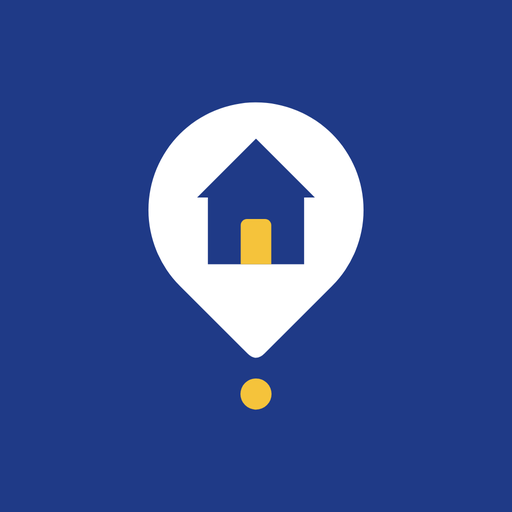
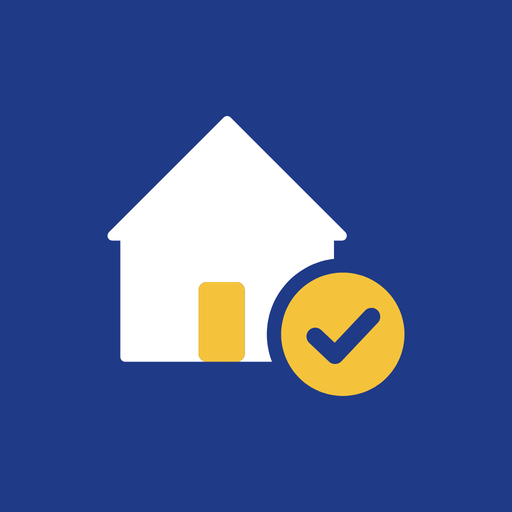
android: 재개픽 '픽' 마크로 런처·스플래시 교체 (집 + 노란 체크 배지)
- assets-src/brand-mark.js: 지도 핀을 버리고 '픽' 마크로. brand_v7/src/pick.py에서 생성한 평면 다각형 경로
  (집 + 노란 문 + 노란 점이 커진 체크 배지, 체크와 배지 틈은 구멍)
- 런처: 남색 배경 + 흰 집, 마크 폭 42dp, 가장 먼 점 25.3dp로 66dp 안전 원 안 (스크립트가 검증)
- 모노크롬 벡터, 레거시 mipmap 5종, 알림 아이콘 재생성
- 스플래시: 같은 마크 96dp, 160dp 마스크 안 (57.7dp / 80dp)
- store_icon.png, icon-monochrome.svg/png 갱신
AAB는 리드가 다시 빌드

Claude-Session: https://claude.ai/code/session_01TBApgVbNEUsetMAVLpwQyX

Changed region(s): [[0.1875, 0.1875, 0.8125, 0.8125]]

diff --git a/android/assets-src/launcher/render-launcher.js b/android/assets-src/launcher/render-launcher.js
@@ -1,15 +1,16 @@
-// Launcher icon (adaptive + legacy) for the 재개픽 TWA — brand v7 (navy tile, white geometric pin, navy house,
-// yellow door + yellow dot). Geometry: ../brand-mark.js (same as brand_v7/logo/jaegaegak_mark_*.svg and the Play icon).
+// Launcher icon (adaptive + legacy) for the 재개픽 TWA — brand v7 "Pick" mark (navy tile, white house + yellow door,
+// yellow "picked" check badge). Geometry: ../brand-mark.js (generated from brand_v7/src/pick.py, same as
+// brand_v7/logo/jaegaepick_mark_*.svg and the Play icon).
 //
 // Writes into <res> (default: ../../app/src/main/res):
 //   values/ic_launcher_background.xml           #1F3A87 (brand navy, = Play icon / PWA maskable background)
-//   drawable/ic_launcher_foreground.xml         vector, 108dp canvas, mark 44dp tall, centred; every ink point lies
-//                                               inside the 66dp safe-zone circle (checked below, the script fails otherwise)
-//   drawable/ic_launcher_monochrome.xml         vector, same geometry, single colour, house knocked out (Android 13 themed icons)
+//   drawable/ic_launcher_foreground.xml         vector, 108dp canvas, mark 42dp wide, centred; every ink point lies
+//                                               inside the 66dp safe-zone circle (checked below, the script fails otherwise).
+//                                               The check and the gap around the badge are holes: the navy background shows through.
+//   drawable/ic_launcher_monochrome.xml         vector, same geometry, single colour, door/check/gap knocked out (Android 13 themed icons)
 //   mipmap-anydpi-v26/ic_launcher.xml, ic_launcher_round.xml   adaptive icon (bg + fg + monochrome)
-//   mipmap-{mdpi..xxxhdpi}/ic_launcher.png, ic_launcher_round.png   48dp legacy (Android 7.x), rounded square / circle;
-//                                               mdpi/hdpi drop the dot and enlarge the pin (dot would be < 2px)
-//   drawable-{mdpi..xxxhdpi}/ic_notification_icon.png   24dp white silhouette (house knocked out)
+//   mipmap-{mdpi..xxxhdpi}/ic_launcher.png, ic_launcher_round.png   48dp legacy (Android 7.x), rounded square / circle
+//   drawable-{mdpi..xxxhdpi}/ic_notification_icon.png   24dp white silhouette (door and check knocked out)
 // and removes the old mipmap-*/ic_launcher_monochrome.png and ic_maskable.png (no longer referenced).
 //
 // Usage: NODE_PATH=$(npm root -g) node android/assets-src/launcher/render-launcher.js [resDir] [preview.png]
@@ -21,15 +22,16 @@ const M = require('../brand-mark');
 
 const RES = path.resolve(process.argv[2] || path.join(__dirname, '../../app/src/main/res'));
 const PREVIEW = process.argv[3];
-const BG = M.NAVY, HOUSE = M.NAVY, WHITE = '#FFFFFF', YELLOW = M.YELLOW;
+const BG = M.NAVY, WHITE = '#FFFFFF', YELLOW = M.YELLOW;
 
 // ---- adaptive geometry (108dp canvas, 72dp visible, 66dp safe circle)
-const GLYPH_DP = 44;                                   // mark ink height incl. dot = 61% of the 72dp visible area (Play icon: 60%)
+const GLYPH_DP = 42;                                   // mark ink width = 58% of the 72dp visible area (= Play icon)
 const SAFE_R = 33;
-const BH = M.BOX.y1 - M.BOX.y0, BCY = (M.BOX.y0 + M.BOX.y1) / 2;
-const K = GLYPH_DP / BH;
-const TX = +(54 - 32 * K).toFixed(4), TY = +(54 - BCY * K).toFixed(4), KS = +K.toFixed(5);
-const reach = M.maxRadius(32, BCY) * K;               // farthest ink point from the canvas centre, in dp
+const BW = M.BOX.x1 - M.BOX.x0, BH = M.BOX.y1 - M.BOX.y0;
+const BCX = (M.BOX.x0 + M.BOX.x1) / 2, BCY = (M.BOX.y0 + M.BOX.y1) / 2;
+const place = (size, cx, cy) => { const k = size / Math.max(BW, BH); return [+(cx - BCX * k).toFixed(4), +(cy - BCY * k).toFixed(4), +k.toFixed(5)]; };
+const [TX, TY, KS] = place(GLYPH_DP, 54, 54);
+const reach = M.maxRadius(BCX, BCY) * KS;             // farthest ink point from the canvas centre, in dp
 if (reach > SAFE_R - 1) throw new Error(`foreground reaches ${reach.toFixed(2)}dp, outside the 66dp safe zone`);
 
 const vec = (comment, body) => `<?xml version="1.0" encoding="utf-8"?>
@@ -44,12 +46,12 @@ ${body}
     </group>
 </vector>
 `;
-const p = (fill, d, extra = '') => `        <path android:fillColor="${fill}"${extra} android:pathData="${d}" />`;
-const FG_XML = vec(`재개픽 mark, adaptive foreground. 108dp canvas, mark ${GLYPH_DP}dp tall,
+const p = (fill, d) => `        <path android:fillColor="${fill}" android:fillType="evenOdd" android:pathData="${d}" />`;
+const FG_XML = vec(`재개픽 mark, adaptive foreground. 108dp canvas, mark ${GLYPH_DP}dp wide,
      farthest ink point ${reach.toFixed(1)}dp from the centre (safe zone: 33dp radius).`,
-  [p(WHITE, M.PIN), p(HOUSE, M.HOUSE), p(YELLOW, M.DOOR), p(YELLOW, M.DOT)].join('\n'));
-const MONO_XML = vec('재개픽 mark, monochrome layer (Android 13 themed icons): pin with the house knocked out, door, dot.',
-  [p(WHITE, M.PIN + M.HOUSE, ' android:fillType="evenOdd"'), p(WHITE, M.DOOR), p(WHITE, M.DOT)].join('\n'));
+  [p(WHITE, M.BODY), p(YELLOW, M.DOOR), p(YELLOW, M.BADGE)].join('\n'));
+const MONO_XML = vec('재개픽 mark, monochrome layer (Android 13 themed icons): house + badge, door and check knocked out.',
+  [p(WHITE, M.BODY), p(WHITE, M.BADGE)].join('\n'));
 const ADAPTIVE_XML = `<?xml version="1.0" encoding="utf-8"?>
 <!-- Generated by assets-src/launcher/render-launcher.js (matches the Play icon: navy #1F3A87 + white 재개픽 mark). -->
 <adaptive-icon xmlns:android="http://schemas.android.com/apk/res/android">
@@ -65,34 +67,22 @@ const BG_XML = `<?xml version="1.0" encoding="utf-8"?>
 `;
 
 // ---- SVG equivalents (PNG rendering + preview)
-const markSvg = (tx, ty, ks, { pin = WHITE, house = HOUSE, door = YELLOW, dot = YELLOW, knock = false } = {}) =>
-  `<g transform="translate(${tx} ${ty}) scale(${ks})">` +
-  (knock ? `<path fill="${pin}" fill-rule="evenodd" d="${M.PIN}${M.HOUSE}"/>` : `<path fill="${pin}" d="${M.PIN}"/><path fill="${house}" d="${M.HOUSE}"/>`) +
-  (door ? `<path fill="${door}" d="${M.DOOR}"/>` : '') + (dot ? `<path fill="${dot}" d="${M.DOT}"/>` : '') + '</g>';
+const markSvg = (tx, ty, ks, { body = WHITE, door = YELLOW, badge = YELLOW } = {}) =>
+  `<g transform="translate(${tx} ${ty}) scale(${ks})" fill-rule="evenodd"><path fill="${body}" d="${M.BODY}"/>` +
+  (door ? `<path fill="${door}" d="${M.DOOR}"/>` : '') + `<path fill="${badge}" d="${M.BADGE}"/></g>`;
 const FG_SVG = markSvg(TX, TY, KS);
-const MONO_SVG = markSvg(TX, TY, KS, { pin: '#fff', door: '#fff', dot: '#fff', knock: true });
+const MONO_SVG = markSvg(TX, TY, KS, { body: '#fff', door: null, badge: '#fff' });
 const svg = (px, viewBox, inner) => `<svg xmlns="http://www.w3.org/2000/svg" width="${px}" height="${px}" viewBox="${viewBox}">${inner}</svg>`;
 
 // Legacy = the 72dp visible part of the adaptive icon under a rounded square (r 22%) or a circle.
-// Small densities: no dot, pin enlarged to the same visual weight.
-const legacy = (px, round, small) => {
-  let tx = TX, ty = TY, ks = KS, dot = YELLOW;
-  if (small) {
-    const b = M.BOX_NODOT, h = b.y1 - b.y0, k = (GLYPH_DP * 0.98) / h;
-    ks = +k.toFixed(5); tx = +(54 - 32 * k).toFixed(4); ty = +(54 - ((b.y0 + b.y1) / 2) * k).toFixed(4); dot = null;
-  }
+const legacy = (px, round) => {
   const shape = round ? `<circle cx="54" cy="54" r="36" fill="${BG}"/>` : `<rect x="18" y="18" width="72" height="72" rx="${(72 * 0.22).toFixed(2)}" fill="${BG}"/>`;
-  return svg(px, '18 18 72 72', shape + markSvg(tx, ty, ks, { dot }));
+  return svg(px, '18 18 72 72', shape + markSvg(TX, TY, KS));
 };
-// Notification: 24dp, white on transparent, pin with house knocked out, no door/dot (too small), 22dp tall.
-const notif = (px) => {
-  const b = M.BOX_NODOT, k = 22 / (b.y1 - b.y0);
-  return svg(px, '0 0 24 24', markSvg(+(12 - 32 * k).toFixed(4), +(12 - ((b.y0 + b.y1) / 2) * k).toFixed(4), +k.toFixed(5),
-    { pin: '#fff', door: null, dot: null, knock: true }));
-};
+// Notification: 24dp, white on transparent, 22dp wide; door and check are holes.
+const notif = (px) => { const [tx, ty, k] = place(22, 12, 12); return svg(px, '0 0 24 24', markSvg(tx, ty, k, { body: '#fff', door: null, badge: '#fff' })); };
 
 const DENS = { mdpi: 1, hdpi: 1.5, xhdpi: 2, xxhdpi: 3, xxxhdpi: 4 };
-const SMALL = { mdpi: true, hdpi: true };
 
 async function shot(page, markup, out) {
   await page.setContent(`<html><body style="margin:0;background:transparent">${markup}</body></html>`);
@@ -111,8 +101,8 @@ async function shot(page, markup, out) {
   w('mipmap-anydpi-v26/ic_launcher_round.xml', ADAPTIVE_XML);
   for (const [d, s] of Object.entries(DENS)) {
     const dir = path.join(RES, 'mipmap-' + d); fs.mkdirSync(dir, { recursive: true });
-    await shot(page, legacy(48 * s, false, SMALL[d]), path.join(dir, 'ic_launcher.png'));
-    await shot(page, legacy(48 * s, true, SMALL[d]), path.join(dir, 'ic_launcher_round.png'));
+    await shot(page, legacy(48 * s, false), path.join(dir, 'ic_launcher.png'));
+    await shot(page, legacy(48 * s, true), path.join(dir, 'ic_launcher_round.png'));
     fs.rmSync(path.join(dir, 'ic_launcher_monochrome.png'), { force: true });
     fs.rmSync(path.join(dir, 'ic_maskable.png'), { force: true });
     const nd = path.join(RES, 'drawable-' + d); fs.mkdirSync(nd, { recursive: true });

diff --git a/android/assets-src/brand-mark.js b/android/assets-src/brand-mark.js
@@ -1,45 +1,24 @@
-// 재개픽 brand mark (v7) — single source of geometry for the launcher, splash and notification icons.
-// Same construction as brand_v7 (logo/jaegaegak_mark_*.svg), 64-unit box:
-//   pin   : circle r19 at (32,25) + two tangents meeting at exactly 90deg , tip slightly rounded
-//   house : 45deg roof, so the roof apex is a right angle mirroring the pin tip; crisp mitred corners
-//   door  : yellow; dot: yellow brand dot under the tip (the "spot" on the map)
-const R2 = Math.SQRT2;
-const PIN_CY = 25, PIN_R = 19, TIP_R = 1.5;
-const TIP_Y = PIN_CY + PIN_R * R2;                                  // 51.87
-const DOT_R = 2.75, DOT_CY = TIP_Y + 3.5 + DOT_R - 0.6;             // 57.52
-const APEX = 12.4, HW = 10.4, BASE = 34.6, EAVE = 1.9;
-const DOOR_W = 5.4, DOOR_H = 8.0, DOOR_R = 1.1;
-const f = (n) => +n.toFixed(3);
+// 재개픽 brand mark ("Pick": house + yellow check badge) — single source of geometry for the launcher, splash and
+// notification icons. GENERATED from brand_v7/src/pick.py (mark_A, flat boolean geometry), same as
+// brand_v7/logo/jaegaepick_mark_*.svg and the Play icon. 64-unit box; all paths are absolute M/L/Z polygons.
+//   BODY  : house (45deg roof, crisp eaves) with the door and the badge gap cut out (fill even-odd)
+//   DOOR  : yellow door
+//   BADGE : yellow "picked" check badge with the check cut out (the background shows through the check and the gap)
+//   CHECK : the check itself (for light backgrounds, painted navy)
+const BODY = 'M27.34,7.44L27.18,7.39L27,7.37L26.82,7.39L26.66,7.44L26.5,7.52L26.36,7.64L5.54,28.46L5.42,28.6L5.34,28.76L5.29,28.92L5.27,29.1L5.29,29.28L5.34,29.44L5.42,29.6L5.54,29.74L5.67,29.85L5.83,29.93L6,29.98L6.17,30L7.6,30L7.6,51.1L7.62,51.28L7.67,51.44L7.75,51.6L7.86,51.74L8,51.85L8.16,51.93L8.32,51.98L8.5,52L23.3,52L23.15,51.99L23.01,51.97L22.86,51.94L22.73,51.89L22.59,51.82L22.47,51.75L22.35,51.66L22.24,51.56L22.14,51.45L22.05,51.33L21.98,51.21L21.91,51.07L21.86,50.94L21.83,50.79L21.81,50.65L21.8,50.5L21.8,39L21.81,38.85L21.83,38.71L21.86,38.56L21.91,38.43L21.98,38.29L22.05,38.17L22.14,38.05L22.24,37.94L22.35,37.84L22.47,37.75L22.59,37.68L22.73,37.61L22.86,37.56L23.01,37.53L23.15,37.51L23.3,37.5L28.7,37.5L28.85,37.51L28.99,37.53L29.14,37.56L29.27,37.61L29.41,37.68L29.53,37.75L29.65,37.84L29.76,37.94L29.86,38.05L29.95,38.17L30.02,38.29L30.09,38.43L30.14,38.56L30.17,38.71L30.19,38.85L30.2,39L30.2,50.5L30.19,50.65L30.17,50.79L30.14,50.94L30.09,51.07L30.02,51.21L29.95,51.33L29.86,51.45L29.76,51.56L29.65,51.66L29.53,51.75L29.41,51.82L29.27,51.89L29.14,51.94L28.99,51.97L28.85,51.99L28.7,52L35.14,52L35.01,51.65L34.79,51.01L34.61,50.35L34.47,49.69L34.35,49.02L34.27,48.35L34.22,47.68L34.2,47L34.22,46.32L34.27,45.65L34.35,44.98L34.47,44.31L34.61,43.65L34.79,42.99L35.01,42.35L35.25,41.72L35.52,41.1L35.83,40.49L36.16,39.91L36.53,39.33L36.92,38.78L37.33,38.25L37.77,37.73L38.24,37.24L38.73,36.77L39.25,36.33L39.78,35.92L40.33,35.53L40.91,35.16L41.49,34.83L42.1,34.52L42.72,34.25L43.35,34.01L43.99,33.79L44.65,33.61L45.31,33.47L45.98,33.35L46.4,33.3L46.4,30L47.83,30L48,29.98L48.17,29.93L48.33,29.85L48.46,29.74L48.58,29.6L48.66,29.44L48.71,29.28L48.73,29.1L48.71,28.92L48.66,28.76L48.58,28.6L48.46,28.46L27.64,7.64L27.5,7.52Z';
+const DOOR = 'M23.3,37.5L23.15,37.51L23.01,37.53L22.86,37.56L22.73,37.61L22.59,37.68L22.47,37.75L22.35,37.84L22.24,37.94L22.14,38.05L22.05,38.17L21.98,38.29L21.91,38.43L21.86,38.56L21.83,38.71L21.81,38.85L21.8,39L21.8,50.5L21.81,50.65L21.83,50.79L21.86,50.94L21.91,51.07L21.98,51.21L22.05,51.33L22.14,51.45L22.24,51.56L22.35,51.66L22.47,51.75L22.59,51.82L22.73,51.89L22.86,51.94L23.01,51.97L23.15,51.99L23.3,52L28.7,52L28.85,51.99L28.99,51.97L29.14,51.94L29.27,51.89L29.41,51.82L29.53,51.75L29.65,51.66L29.76,51.56L29.86,51.45L29.95,51.33L30.02,51.21L30.09,51.07L30.14,50.94L30.17,50.79L30.19,50.65L30.2,50.5L30.2,39L30.19,38.85L30.17,38.71L30.14,38.56L30.09,38.43L30.02,38.29L29.95,38.17L29.86,38.05L29.76,37.94L29.65,37.84L29.53,37.75L29.41,37.68L29.27,37.61L29.14,37.56L28.99,37.53L28.85,37.51L28.7,37.5Z';
+const BADGE = 'M59.19,46.45L59.15,45.9L59.08,45.36L58.98,44.81L58.86,44.28L58.72,43.75L58.55,43.23L58.35,42.71L58.12,42.21L57.88,41.72L57.61,41.24L57.31,40.78L57,40.33L56.66,39.89L56.3,39.48L55.92,39.08L55.52,38.7L55.11,38.34L54.67,38L54.22,37.69L53.76,37.39L53.28,37.12L52.79,36.88L52.29,36.65L51.77,36.45L51.25,36.28L50.72,36.14L50.19,36.02L49.64,35.92L49.1,35.85L48.55,35.81L48,35.8L47.45,35.81L46.9,35.85L46.36,35.92L45.81,36.02L45.28,36.14L44.75,36.28L44.23,36.45L43.71,36.65L43.21,36.88L42.72,37.12L42.24,37.39L41.78,37.69L41.33,38L40.89,38.34L40.48,38.7L40.08,39.08L39.7,39.48L39.34,39.89L39,40.33L38.69,40.78L38.39,41.24L38.12,41.72L37.88,42.21L37.65,42.71L37.45,43.23L37.28,43.75L37.14,44.28L37.02,44.81L36.92,45.36L36.85,45.9L36.81,46.45L36.8,47L36.81,47.55L36.85,48.1L36.92,48.64L37.02,49.19L37.14,49.72L37.28,50.25L37.45,50.77L37.65,51.29L37.88,51.79L38.12,52.28L38.39,52.76L38.69,53.22L39,53.67L39.34,54.11L39.7,54.52L40.08,54.92L40.48,55.3L40.89,55.66L41.33,56L41.78,56.31L42.24,56.61L42.72,56.88L43.21,57.12L43.71,57.35L44.23,57.55L44.75,57.72L45.28,57.86L45.81,57.98L46.36,58.08L46.9,58.15L47.45,58.19L48,58.2L48.55,58.19L49.1,58.15L49.64,58.08L50.19,57.98L50.72,57.86L51.25,57.72L51.77,57.55L52.29,57.35L52.79,57.12L53.28,56.88L53.76,56.61L54.22,56.31L54.67,56L55.11,55.66L55.52,55.3L55.92,54.92L56.3,54.52L56.66,54.11L57,53.67L57.31,53.22L57.61,52.76L57.88,52.28L58.12,51.79L58.35,51.29L58.55,50.77L58.72,50.25L58.86,49.72L58.98,49.19L59.08,48.64L59.15,48.1L59.19,47.55L59.2,47ZM41.9,48.56L41.76,48.41L41.64,48.24L41.54,48.05L41.47,47.86L41.42,47.65L41.4,47.45L41.41,47.24L41.44,47.03L41.5,46.83L41.59,46.64L41.7,46.46L41.84,46.3L41.99,46.16L42.16,46.04L42.35,45.94L42.54,45.87L42.75,45.82L42.95,45.8L43.16,45.81L43.37,45.84L43.57,45.9L43.76,45.99L43.94,46.1L44.1,46.24L46.53,48.54L52.04,42.7L52.19,42.56L52.36,42.44L52.54,42.34L52.74,42.27L52.94,42.22L53.15,42.2L53.36,42.21L53.57,42.24L53.77,42.3L53.96,42.39L54.14,42.5L54.3,42.64L54.44,42.79L54.56,42.96L54.66,43.14L54.73,43.34L54.78,43.54L54.8,43.75L54.79,43.96L54.76,44.17L54.7,44.37L54.61,44.56L54.5,44.74L54.36,44.9L47.76,51.9L47.61,52.04L47.44,52.16L47.26,52.26L47.06,52.33L46.85,52.38L46.65,52.4L46.44,52.39L46.23,52.36L46.03,52.3L45.84,52.21L45.66,52.1L45.5,51.96Z';
+const CHECK = 'M45.5,51.96L45.66,52.1L45.84,52.21L46.03,52.3L46.23,52.36L46.44,52.39L46.65,52.4L46.85,52.38L47.06,52.33L47.26,52.26L47.44,52.16L47.61,52.04L47.76,51.9L54.36,44.9L54.5,44.74L54.61,44.56L54.7,44.37L54.76,44.17L54.79,43.96L54.8,43.75L54.78,43.54L54.73,43.34L54.66,43.14L54.56,42.96L54.44,42.79L54.3,42.64L54.14,42.5L53.96,42.39L53.77,42.3L53.57,42.24L53.36,42.21L53.15,42.2L52.94,42.22L52.74,42.27L52.54,42.34L52.36,42.44L52.19,42.56L52.04,42.7L46.53,48.54L44.1,46.24L43.94,46.1L43.76,45.99L43.57,45.9L43.37,45.84L43.16,45.81L42.95,45.8L42.75,45.82L42.54,45.87L42.35,45.94L42.16,46.04L41.99,46.16L41.84,46.3L41.7,46.46L41.59,46.64L41.5,46.83L41.44,47.03L41.41,47.24L41.4,47.45L41.42,47.65L41.47,47.86L41.54,48.05L41.64,48.24L41.76,48.41L41.9,48.56Z';
+const BOX = { x0: 5.273, y0: 7.373, x1: 59.200, y1: 58.200 };
 
-function pinD() {
-  const a = PIN_R / R2, cx = 32, cy = PIN_CY, d = TIP_R;
-  return `M${f(cx + d)},${f(TIP_Y - d)}L${f(cx + a)},${f(cy + a)}A${PIN_R},${PIN_R} 0 1,0 ${f(cx - a)},${f(cy + a)}` +
-    `L${f(cx - d)},${f(TIP_Y - d)}Q${cx},${f(TIP_Y)} ${f(cx + d)},${f(TIP_Y - d)}Z`;
-}
-function houseD() {
-  const ry = APEX + HW, ex = HW - EAVE;
-  return `M32,${APEX}L${f(32 + HW)},${f(ry)}H${f(32 + ex)}V${BASE}H${f(32 - ex)}V${f(ry)}H${f(32 - HW)}Z`;
-}
-function doorD() {
-  const x0 = 32 - DOOR_W / 2, y0 = BASE - DOOR_H, r = DOOR_R;
-  return `M${f(x0 + r)},${f(y0)}H${f(x0 + DOOR_W - r)}A${r},${r} 0 0,1 ${f(x0 + DOOR_W)},${f(y0 + r)}V${BASE}` +
-    `H${f(x0)}V${f(y0 + r)}A${r},${r} 0 0,1 ${f(x0 + r)},${f(y0)}Z`;
-}
-function dotD() {
-  const r = DOT_R;
-  return `M${f(32 - r)},${f(DOT_CY)}a${r},${r} 0 1,0 ${f(2 * r)},0a${r},${r} 0 1,0 ${f(-2 * r)},0Z`;
-}
-
-// Ink bounds in mark units (with and without the dot) and the farthest ink point from a centre, for safe-zone checks.
-const BOX = { x0: 32 - PIN_R, y0: PIN_CY - PIN_R, x1: 32 + PIN_R, y1: DOT_CY + DOT_R };
-const BOX_NODOT = { ...BOX, y1: TIP_Y };
-function maxRadius(cx, cy, dot = true) {
-  // circle part, tip and dot are the only extreme points
-  let m = Math.hypot(32 - cx, PIN_CY - cy) + PIN_R;
-  m = Math.max(m, Math.hypot(32 - cx, TIP_Y - cy));
-  if (dot) m = Math.max(m, Math.hypot(32 - cx, DOT_CY - cy) + DOT_R);
+// Farthest ink point from (cx, cy), in mark units — used for the adaptive-icon safe-zone and splash-mask checks.
+function maxRadius(cx, cy) {
+  let m = 0;
+  for (const d of [BODY, DOOR, BADGE]) {
+    const n = d.match(/-?\d+(?:\.\d+)?/g).map(Number);
+    for (let i = 0; i + 1 < n.length; i += 2) m = Math.max(m, Math.hypot(n[i] - cx, n[i + 1] - cy));
+  }
   return m;
 }
 
-module.exports = { PIN: pinD(), HOUSE: houseD(), DOOR: doorD(), DOT: dotD(), BOX, BOX_NODOT, TIP_Y, maxRadius,
-  NAVY: '#1F3A87', NAVY_D: '#13265E', YELLOW: '#F5C33B' };
+module.exports = { BODY, DOOR, BADGE, CHECK, BOX, maxRadius, NAVY: '#1F3A87', NAVY_D: '#13265E', YELLOW: '#F5C33B' };

diff --git a/android/assets-src/splash/render-splash.js b/android/assets-src/splash/render-splash.js
@@ -1,11 +1,11 @@
-// Brand splash (재개픽, brand v7): full-screen navy + white geometric pin (house knocked out to the splash background,
-// yellow door, yellow brand dot), no wordmark. Geometry: ../brand-mark.js (same as the launcher / Play icon).
+// Brand splash (재개픽, brand v7): full-screen navy + white "Pick" mark (house with yellow door, yellow check badge),
+// no wordmark. Geometry: ../brand-mark.js (generated from brand_v7/src/pick.py, same as the launcher / Play icon).
 // One vector drawable is used for both stages so they look identical:
 //   - Android 12+ system splash: values-v31/themes.xml windowSplashScreenAnimatedIcon (240dp icon with icon
 //     background = navy, so the mark must sit inside the 160dp mask circle — checked below)
 //   - androidbrowserhelper TWA splash: SPLASH_IMAGE_DRAWABLE (rasterised at its 240dp intrinsic size, ScaleType
 //     CENTER, both in LauncherActivity and in Chrome's splash), background @color/backgroundColor.
-// The knocked-out house is painted with @color/backgroundColor, so it follows values / values-night automatically.
+// The check and the gap around the badge are holes, so the splash background (values / values-night) shows through.
 //
 // Writes <res>/drawable/splash.xml (default ../../app/src/main/res) and, with a 2nd argument, a preview PNG.
 // Usage: NODE_PATH=$(npm root -g) node android/assets-src/splash/render-splash.js [resDir] [preview.png]
@@ -18,17 +18,17 @@ const PREVIEW = process.argv[3];
 const NAVY = M.NAVY, NAVY_NIGHT = M.NAVY_D, YELLOW = M.YELLOW;
 const CANVAS = 240;            // dp, Android 12 icon-with-background size
 const MASK_D = 160;            // dp, Android 12 icon mask circle
-const MARK_H = 100;            // dp, mark height on screen (pin + dot)
+const MARK_W = 96;             // dp, mark width on screen
 
-const BH = M.BOX.y1 - M.BOX.y0, BCY = (M.BOX.y0 + M.BOX.y1) / 2;
-const K = MARK_H / BH;
-const TX = +(CANVAS / 2 - 32 * K).toFixed(4), TY = +(CANVAS / 2 - BCY * K).toFixed(4), KS = +K.toFixed(5);
-const reach = M.maxRadius(32, BCY) * K;
+const BW = M.BOX.x1 - M.BOX.x0, BH = M.BOX.y1 - M.BOX.y0, BCX = (M.BOX.x0 + M.BOX.x1) / 2, BCY = (M.BOX.y0 + M.BOX.y1) / 2;
+const K = MARK_W / Math.max(BW, BH);
+const TX = +(CANVAS / 2 - BCX * K).toFixed(4), TY = +(CANVAS / 2 - BCY * K).toFixed(4), KS = +K.toFixed(5);
+const reach = M.maxRadius(BCX, BCY) * K;
 if (reach > MASK_D / 2 - 4) throw new Error(`splash mark reaches ${reach.toFixed(1)}dp, outside the ${MASK_D}dp mask`);
 
 const XML = `<?xml version="1.0" encoding="utf-8"?>
-<!-- Generated by assets-src/splash/render-splash.js: 재개픽 splash mark (white pin, house knocked out to the splash
-     background, yellow door + dot). ${CANVAS}dp canvas, mark ${MARK_H}dp tall, centred, farthest point ${reach.toFixed(1)}dp
+<!-- Generated by assets-src/splash/render-splash.js: 재개픽 splash mark (white house, yellow door, yellow check badge;
+     check and badge gap are holes). ${CANVAS}dp canvas, mark ${MARK_W}dp wide, centred, farthest point ${reach.toFixed(1)}dp
      from the centre: inside the Android 12 ${MASK_D}dp icon circle.
      Used by values-v31 windowSplashScreenAnimatedIcon and by the TWA SPLASH_IMAGE_DRAWABLE. -->
 <vector xmlns:android="http://schemas.android.com/apk/res/android"
@@ -37,10 +37,9 @@ const XML = `<?xml version="1.0" encoding="utf-8"?>
     android:viewportWidth="${CANVAS}"
     android:viewportHeight="${CANVAS}">
     <group android:translateX="${TX}" android:translateY="${TY}" android:scaleX="${KS}" android:scaleY="${KS}">
-        <path android:fillColor="#FFFFFF" android:pathData="${M.PIN}" />
-        <path android:fillColor="@color/backgroundColor" android:pathData="${M.HOUSE}" />
-        <path android:fillColor="${YELLOW}" android:pathData="${M.DOOR}" />
-        <path android:fillColor="${YELLOW}" android:pathData="${M.DOT}" />
+        <path android:fillColor="#FFFFFF" android:fillType="evenOdd" android:pathData="${M.BODY}" />
+        <path android:fillColor="${YELLOW}" android:fillType="evenOdd" android:pathData="${M.DOOR}" />
+        <path android:fillColor="${YELLOW}" android:fillType="evenOdd" android:pathData="${M.BADGE}" />
     </group>
 </vector>
 `;
@@ -59,7 +58,7 @@ async function preview(out) {
   const mark = (bg) => xml.replace(/<\?xml[^>]*>|<!--[\s\S]*?-->|<vector[^>]*>|<\/vector>/g, '')
     .replace(/<group([^>]*)>/g, (_, a) => `<g transform="translate(${attr(a, 'translateX') || 0} ${attr(a, 'translateY') || 0}) scale(${attr(a, 'scaleX') || 1} ${attr(a, 'scaleY') || 1})">`)
     .replace(/<\/group>/g, '</g>')
-    .replace(/<path([^>]*)\/>/g, (_, a) => `<path d="${attr(a, 'pathData')}" fill="${attr(a, 'fillColor') || 'none'}"/>`)
+    .replace(/<path([^>]*)\/>/g, (_, a) => `<path d="${attr(a, 'pathData')}" fill="${attr(a, 'fillColor') || 'none'}" fill-rule="evenodd"/>`)
     .split('@color/backgroundColor').join(bg);
   const W = 412, H = 915, SB = 32, NB = 48;
   // navBg: the nav bar colour actually shown. The Android 12 system splash draws navy under it; in the TWA stage the
